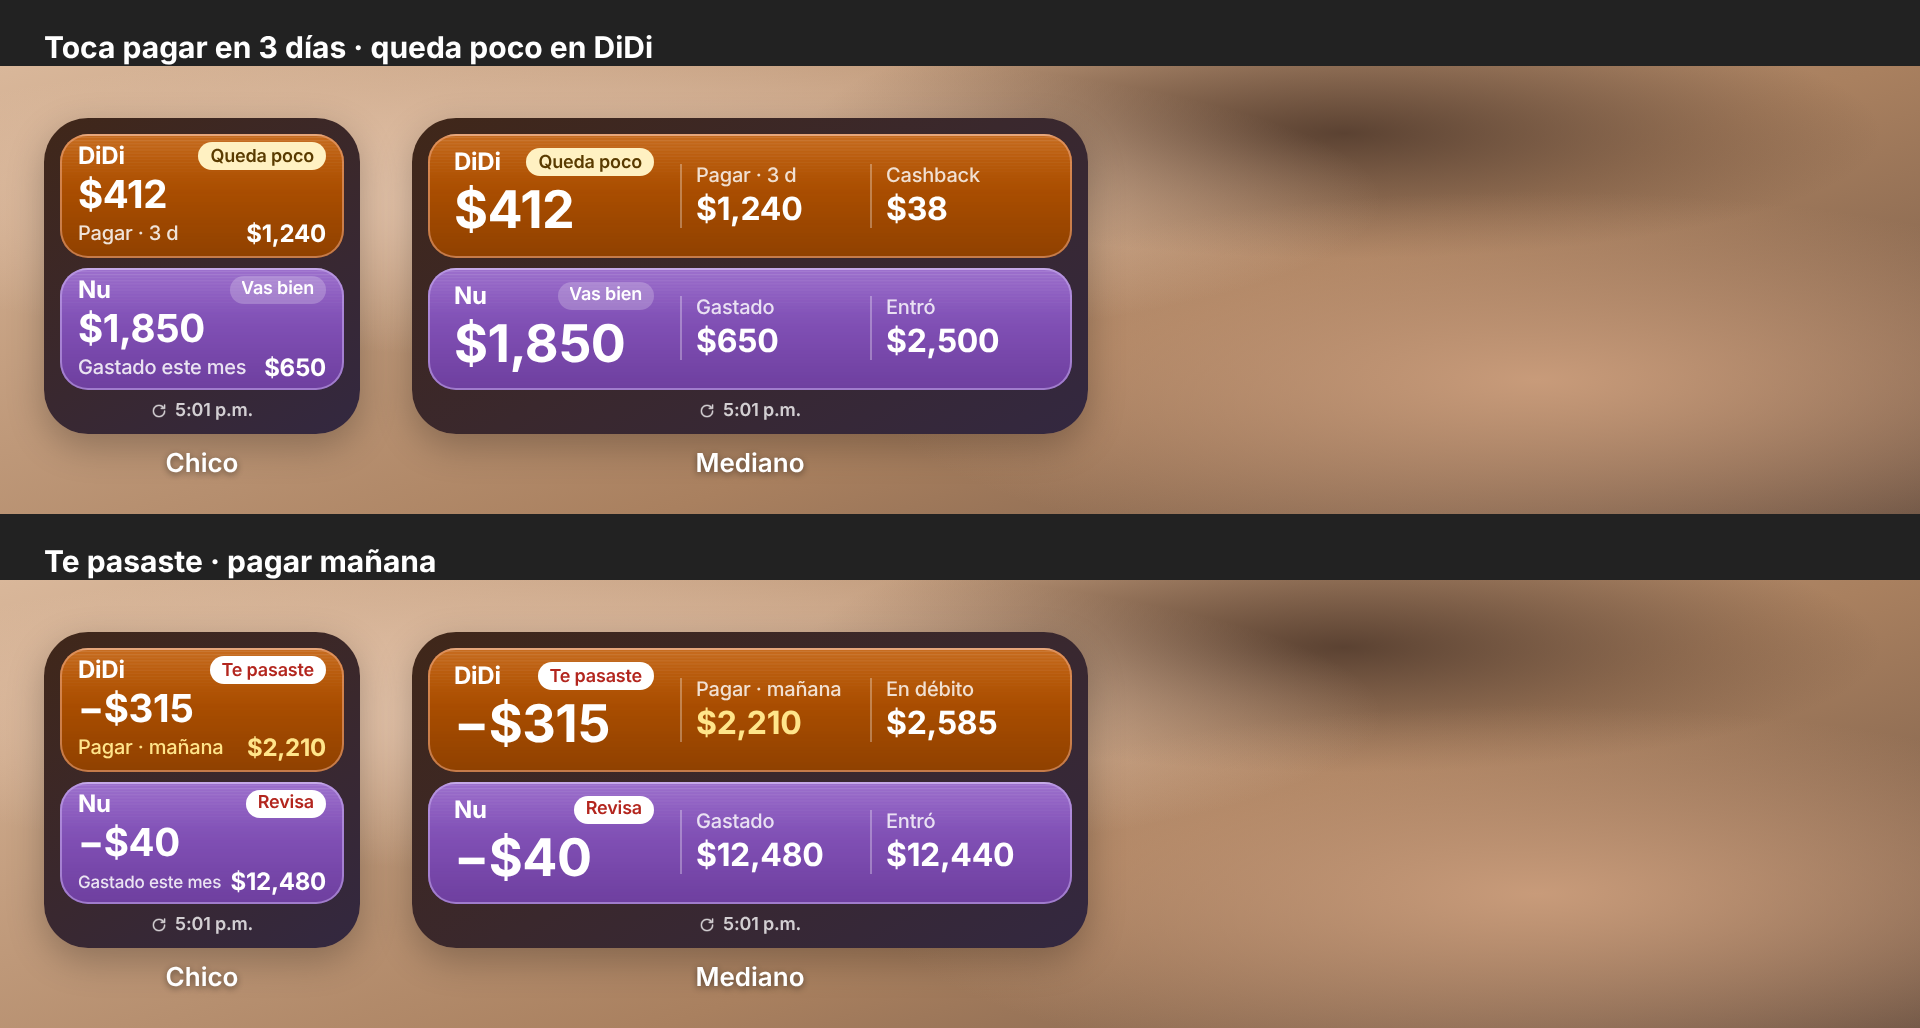
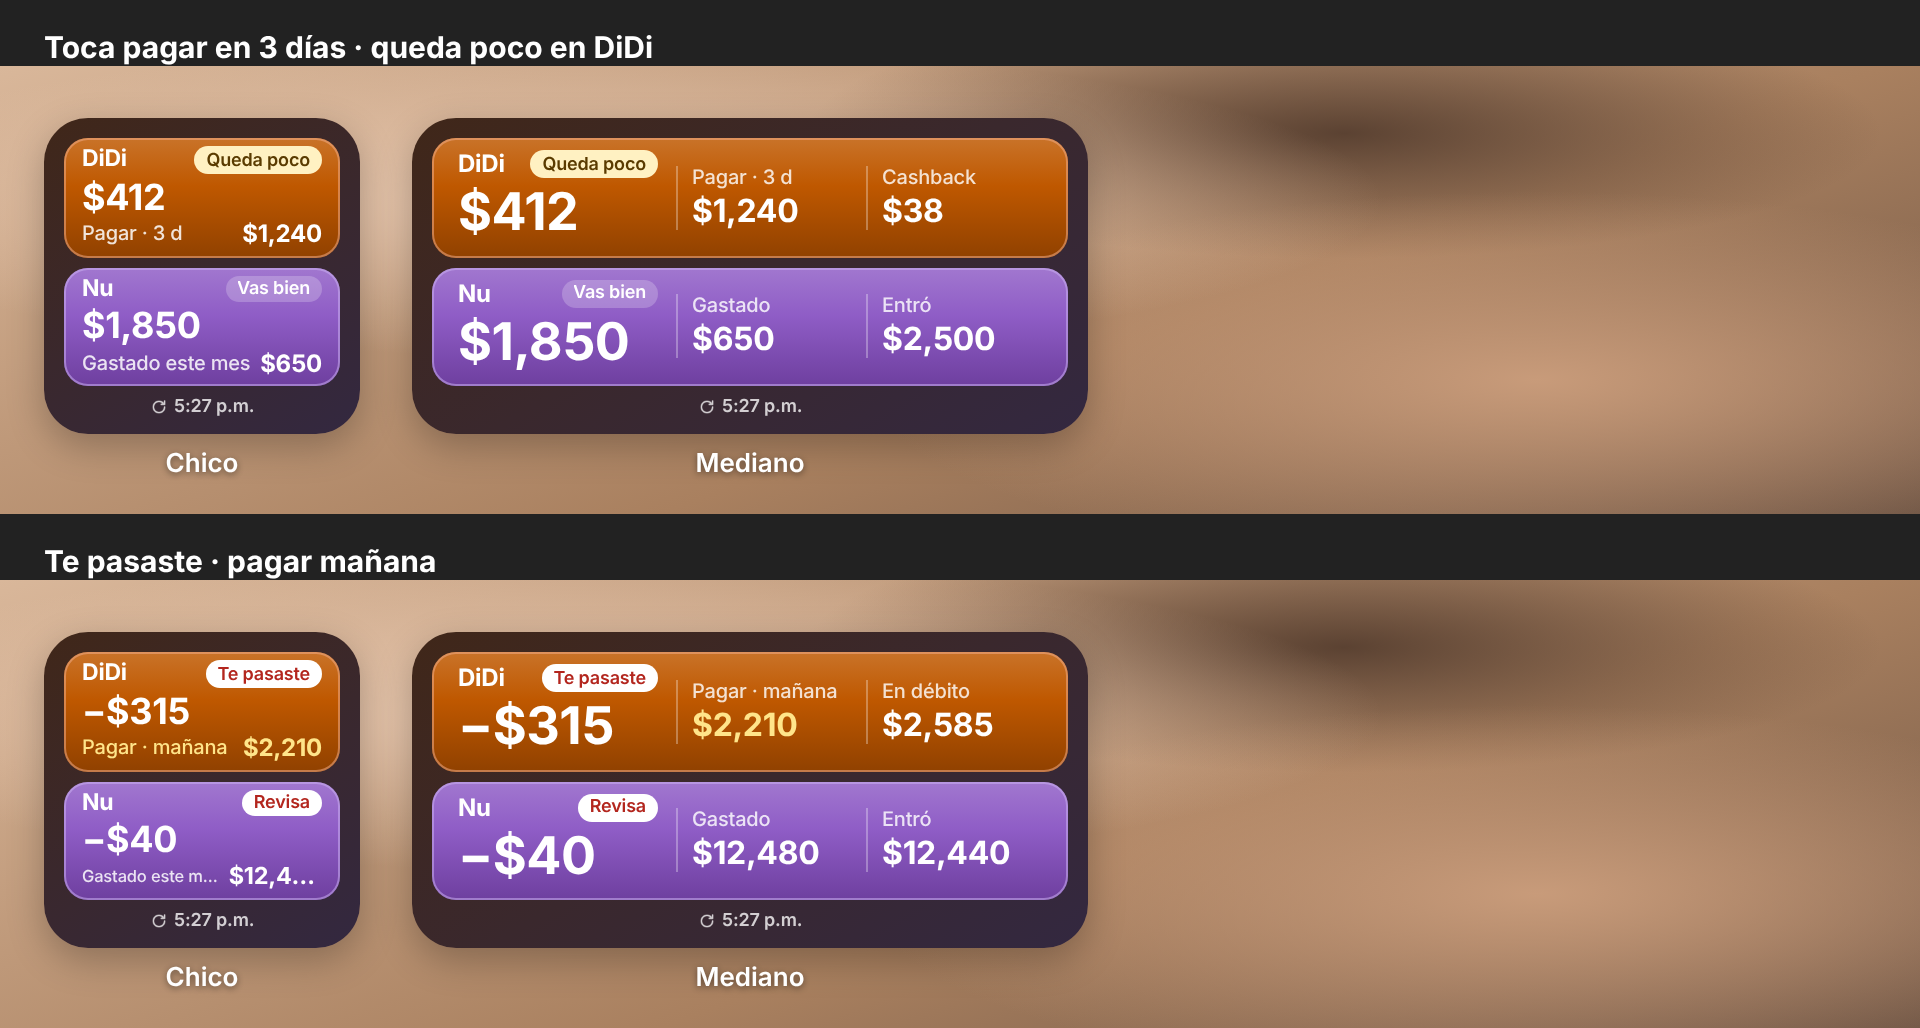
Widget v5.2: fondo de ficha en degradado, márgenes según Apple y modo medir
- Las fichas usan backgroundGradient en vez de una imagen dibujada a un tamaño supuesto:
  el degradado cubre siempre la ficha exacta en cualquier iPhone.
- Sin tabla de tamaños supuestos (ladoChico fuera): todo se reparte el espacio real.
- Márgenes de 10 pt (Apple HIG: 11 pt para contenido agrupado en formas con fondo) y radio
  concéntrico 12 (≈22 del widget − margen).
- Parameter "medir": bordes rojos en las fichas y tamaño de pantalla + versión abajo,
  para medir en el iPhone real.

Claude-Session: https://claude.ai/code/session_019sJgDYgyoTvEpw4ro3vz1H

diff --git a/scriptable/Caudal-widget.js b/scriptable/Caudal-widget.js
@@ -63,7 +63,7 @@ function plazo(r) {
 
 const CUENTA = String((typeof args !== 'undefined' && args.widgetParameter) || 'activa').trim();
 
-const VERSION = 'v5.1';   // si el widget muestra otra, pegaste un archivo distinto
+const VERSION = 'v5.2';   // si el widget muestra otra, pegaste un archivo distinto
 
 /** Revisa que las dos líneas del inicio estén llenas; si no, dice cuál falta. */
 function revisarDatos() {
@@ -351,22 +351,14 @@ function fondoVarias(ests) {
   return g;
 }
 
-/** Fondo de la ficha: del color de la cuenta con luz arriba y brillo de vidrio (iOS no deja desenfocar de verdad). */
-function cristal(ancho, alto, F) {
-  const dc = new DrawContext();
-  dc.size = new Size(ancho, alto); dc.opaque = false; dc.respectScreenScale = true;
-  const pasos = 40;
-  for (let i = 0; i < pasos; i++) {   // degradado de arriba hacia abajo
-    dc.setFillColor(new Color(mezcla(F.arriba, F.abajo, i / (pasos - 1))));
-    dc.fillRect(new Rect(0, (alto / pasos) * i, ancho, alto / pasos + 0.6));
-  }
-  const franjas = 22, zona = alto * 0.55;
-  for (let i = 0; i < franjas; i++) {   // brillo de vidrio en la parte de arriba
-    dc.setFillColor(new Color('#ffffff', 0.12 * Math.pow(1 - i / franjas, 2)));
-    dc.fillRect(new Rect(0, (zona / franjas) * i, ancho, zona / franjas + 0.5));
-  }
-  dc.setFillColor(new Color('#ffffff', 0.35)); dc.fillRect(new Rect(0, 0, ancho, 1));   // filo de luz arriba
-  return dc.getImage();
+/** Fondo de la ficha: degradado del color de la cuenta con luz arriba (brillo de vidrio).
+ *  Es un degradado y no una imagen: así siempre cubre la ficha exacta, mida lo que mida en ese iPhone. */
+function cristal(F) {
+  const g = new LinearGradient();
+  g.colors = [mezcla(F.arriba, '#ffffff', 0.16), F.arriba, F.abajo].map(h => new Color(h));
+  g.locations = [0, 0.4, 1];
+  g.startPoint = new Point(0, 0); g.endPoint = new Point(0, 1);
+  return g;
 }
 
 /** Mezcla de dos colores hex (t de 0 a 1). */
@@ -429,11 +421,11 @@ function indicadoresDe(d) {
 }
 
 /** Marco de la ficha: del color de la cuenta, con filo de luz. Sin tamaño fijo: se estira a lo que mida el widget. */
-function marco(w, est, alto, ancho, radio, padH, padV) {
+function marco(w, est, radio, padH, padV) {
   const f = w.addStack(); f.layoutHorizontally(); f.centerAlignContent();
   f.cornerRadius = radio; f.setPadding(padV, padH, padV, padH);
-  f.backgroundImage = cristal(ancho, alto, est.ficha);   // la imagen se estira al tamaño real de la ficha
-  f.borderWidth = 1; f.borderColor = col(est.ficha.filo, 0.55);
+  f.backgroundGradient = cristal(est.ficha);
+  f.borderWidth = MEDIR ? 2 : 1; f.borderColor = MEDIR ? col('#ff2d55') : col(est.ficha.filo, 0.55);
   return f;
 }
 
@@ -448,9 +440,9 @@ function cifra(stack, n, tam) {
 }
 
 /** Ficha del widget chico (cuadrado): nombre y estado, cifra grande, y el dato de apoyo a todo lo ancho. */
-function fichaChica(w, d, est, alto, ancho) {
+function fichaChica(w, d, est) {
   const r = d.r, nom = d.cuenta ? d.cuenta.nombre : '';
-  const f = marco(w, est, alto, ancho, RADIO_FICHA, 9, 5);
+  const f = marco(w, est, RADIO_FICHA, 9, 5);
   // Sin anchos ni altos fijos: cada fila lleva un espaciador a lo ancho y la ficha se estira a lo alto, así la
   // ficha llena el widget mida lo que mida en ese iPhone. Los textos quedan centrados a lo alto dentro de la ficha.
   const c = f.addStack(); c.layoutVertically();
@@ -478,9 +470,9 @@ function fichaChica(w, d, est, alto, ancho) {
 }
 
 /** Ficha del widget mediano (ancho): cifra a la izquierda, dos indicadores a la derecha. */
-function fichaMediana(w, d, est, alto, ancho) {
+function fichaMediana(w, d, est) {
   const r = d.r, nom = d.cuenta ? d.cuenta.nombre : '';
-  const f = marco(w, est, alto, ancho, RADIO_FICHA, 13, 7);
+  const f = marco(w, est, RADIO_FICHA, 13, 7);
   const izq = f.addStack(); izq.layoutVertically(); izq.size = new Size(100, 0);   // ancho fijo: el estado queda alineado en todas las fichas
   const l1 = izq.addStack(); l1.centerAlignContent();
   texto(l1, nom, Font.boldSystemFont(12), BLANCO(), { minimumScaleFactor: 0.7 });
@@ -497,13 +489,6 @@ function fichaMediana(w, d, est, alto, ancho) {
     indicador(f, x[0], x[1], x[2], x[3], 80);
   });
   estirarAlto(f);
-}
-
-/** Alto del widget chico según el iPhone (en puntos), para que las dos fichas quepan sin recortarse. */
-function ladoChico() {
-  const t = { 320: 141, 375: 148, 390: 158, 393: 158, 414: 169, 428: 170, 430: 170 };
-  let w = 390; try { w = Device.screenSize().width; } catch (e) {}
-  return t[w] || 158;
 }
 
 /** Ícono de "última actualización": la flecha circular de la app (línea fina, puntas redondas), dibujada a mano
@@ -530,8 +515,13 @@ function horaTexto(t) {
   return df.string(new Date(t)).replace('a. m.', 'a.m.').replace('p. m.', 'p.m.');
 }
 
-// Márgenes iguales en los cuatro lados y esquinas concéntricas: radio de la ficha = radio del widget (~22) − margen.
-const MARGEN = 8, RADIO_FICHA = 14;
+// Guía de Apple (HIG, Widgets): margen estándar 16 pt; 11 pt para agrupar contenido en formas con fondo.
+// Aquí las fichas son esas formas: 10 pt alrededor (casi los 11 de Apple, para que quepan dos cuentas en el chico).
+// Esquinas concéntricas: radio de la ficha = radio del widget (~22 pt) − margen.
+const MARGEN = 10, RADIO_FICHA = 12;
+// Modo para medir en el iPhone real: Parameter del widget = "medir". Bordes rojos en las fichas y,
+// abajo, el tamaño de pantalla que reporta el iPhone y la versión del script.
+const MEDIR = CUENTA.toLowerCase() === 'medir';
 
 function variasFichas(datos, fam) {
   const w = new ListWidget();
@@ -539,17 +529,15 @@ function variasFichas(datos, fam) {
   const ests = datos.lista.map(estadoDe);
   w.backgroundGradient = fondoVarias(ests);
   const chico = fam === 'small';
-  const lado = ladoChico(), n = datos.lista.length;
+  const n = datos.lista.length;
   const gap = 5;
   // Abajo un poco menos: la línea de la hora ya trae aire propio, así se ve el mismo margen en los cuatro lados.
   w.setPadding(MARGEN, MARGEN, MARGEN - 2, MARGEN);
-  // Las fichas NO tienen alto ni ancho fijos: se reparten todo el espacio del widget (el tamaño real cambia
-  // según el iPhone y la versión de iOS). Este tamaño solo sirve para dibujar la imagen del fondo de la ficha.
-  const alto = chico ? Math.floor((lado - 2 * MARGEN - 16 - gap * (n - 1)) / n) : 60;
-  const ancho = chico ? lado - 2 * MARGEN : 322;
+  // Nada de medidas supuestas: las fichas no tienen alto ni ancho fijos y se reparten todo el espacio del widget
+  // (el tamaño real cambia según el modelo de iPhone, el zoom de pantalla y la versión de iOS).
   datos.lista.forEach((d, i) => {
     if (i > 0) w.addSpacer(gap);
-    (chico ? fichaChica : fichaMediana)(w, d, ests[i], alto, ancho);
+    (chico ? fichaChica : fichaMediana)(w, d, ests[i]);
   });
   w.addSpacer(4);
   // Hora de la última actualización, centrada y pegada a las fichas, para saber si las cifras están al día.
@@ -560,7 +548,10 @@ function variasFichas(datos, fam) {
   const cuadro = fila.addStack(); cuadro.size = new Size(9, 12); cuadro.centerAlignContent();
   const im = cuadro.addImage(iconoActualizar(tono));
   im.imageSize = new Size(9, 9); fila.addSpacer(3);
-  texto(fila, horaTexto(datos.t) + (datos.viejo ? ' · sin conexión' : '') + (!chico && datos.total > n ? ' · +' + (datos.total - n) + ' más' : ''),
+  let pie = horaTexto(datos.t);
+  if (MEDIR) { let sz = { width: 0, height: 0 }; try { sz = Device.screenSize(); } catch (e) {}
+    pie = Math.round(sz.width) + '×' + Math.round(sz.height) + ' · ' + fam + ' · ' + VERSION; }
+  texto(fila, pie + (datos.viejo ? ' · sin conexión' : '') + (!chico && datos.total > n ? ' · +' + (datos.total - n) + ' más' : ''),
     Font.semiboldSystemFont(9), tono);
   fila.addSpacer();
   return w;
@@ -583,7 +574,7 @@ function abrir(w) {
 async function crear() {
   const fam0 = config.widgetFamily || 'medium';
   // Sin parámetro, en mediano o grande: todas las cuentas en un solo widget.
-  if ((CUENTA === 'activa' || CUENTA.toLowerCase() === 'todas') && (fam0 === 'small' || fam0 === 'medium' || fam0 === 'large')) {
+  if ((CUENTA === 'activa' || CUENTA.toLowerCase() === 'todas' || MEDIR) && (fam0 === 'small' || fam0 === 'medium' || fam0 === 'large')) {
     const todas = await cargarTodas(fam0);
     if (!todas.error && todas.lista.length > 1) return abrir(variasFichas(todas, fam0));
   }
